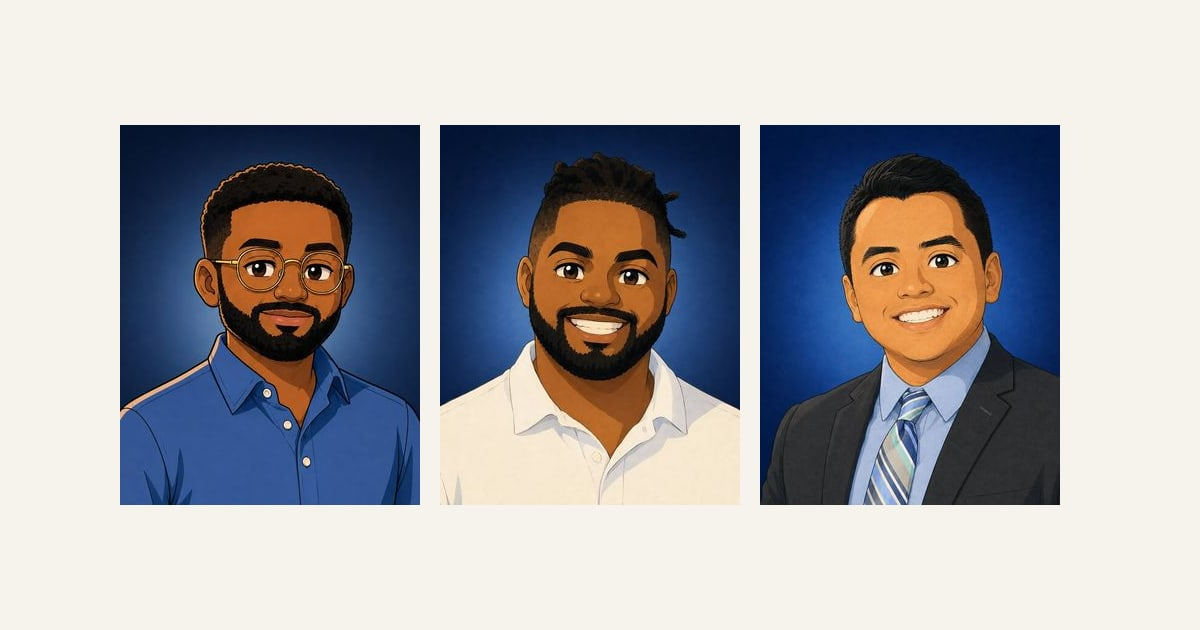
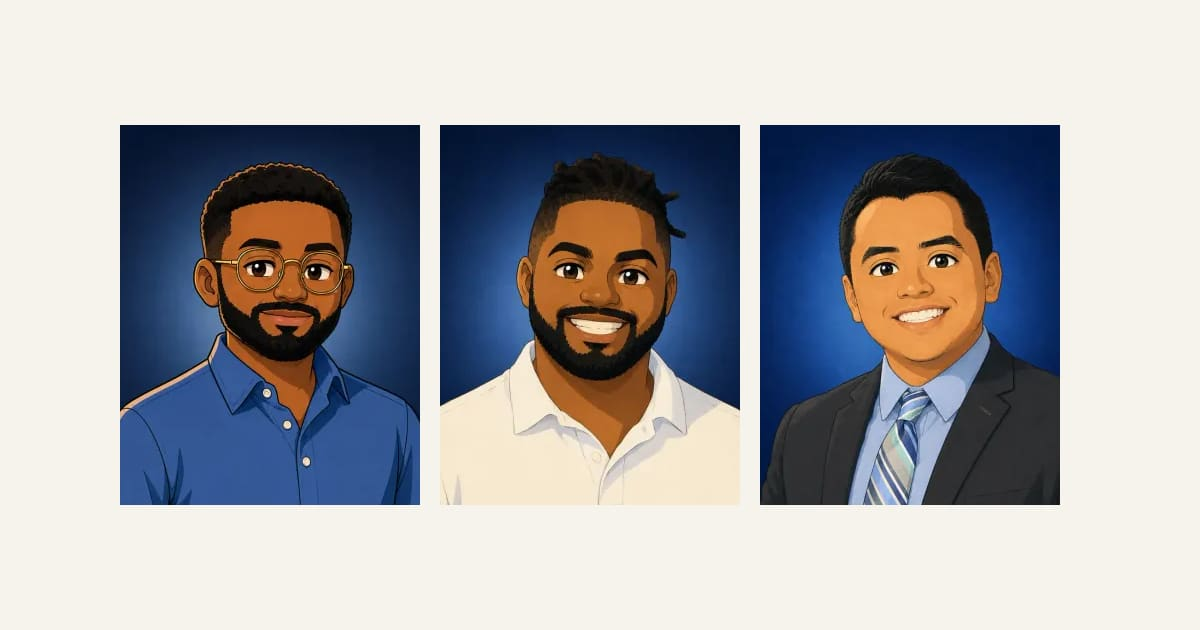
Serve team portraits as WebP cropped to the display box
The portraits were 900x900 squares with JPEG fallbacks, but the layout renders
them in a 4:5 box, so object-fit discarded the extra pixels. Cropping to 660x825
at the source drops the three images from 149KB to 89KB with no visible change.

Drops the JPEG fallbacks, which roughly doubled image weight to cover the ~3% of
browsers predating WebP support.

diff --git a/index.html b/index.html
@@ -18,7 +18,7 @@
 <meta name="twitter:image" content="/assets/img/og.jpg">
 
 <link rel="icon" href="/favicon.svg" type="image/svg+xml">
-<link rel="apple-touch-icon" href="/assets/img/ryan.jpg">
+<link rel="apple-touch-icon" href="/assets/img/og.jpg">
 
 <link rel="preconnect" href="https://fonts.googleapis.com">
 <link rel="preconnect" href="https://fonts.gstatic.com" crossorigin>
@@ -141,10 +141,8 @@
   <div class="team">
     <article class="member" data-reveal="0">
       <div class="member__photo">
-        <picture>
-          <source srcset="/assets/img/ryan.webp" type="image/webp">
-          <img src="/assets/img/ryan.jpg" alt="Illustrated portrait of Ryan" width="900" height="900" loading="lazy" decoding="async">
-        </picture>
+        <img src="/assets/img/ryan.webp" alt="Illustrated portrait of Ryan"
+             width="660" height="825" loading="lazy" decoding="async">
       </div>
       <div class="member__head">
         <h3 class="member__name">Ryan</h3>
@@ -156,10 +154,8 @@
 
     <article class="member" data-reveal="100">
       <div class="member__photo">
-        <picture>
-          <source srcset="/assets/img/damani.webp" type="image/webp">
-          <img src="/assets/img/damani.jpg" alt="Illustrated portrait of Damani" width="900" height="900" loading="lazy" decoding="async">
-        </picture>
+        <img src="/assets/img/damani.webp" alt="Illustrated portrait of Damani"
+             width="660" height="825" loading="lazy" decoding="async">
       </div>
       <div class="member__head">
         <h3 class="member__name">Damani</h3>
@@ -171,10 +167,8 @@
 
     <article class="member" data-reveal="200">
       <div class="member__photo">
-        <picture>
-          <source srcset="/assets/img/oscar.webp" type="image/webp">
-          <img src="/assets/img/oscar.jpg" alt="Illustrated portrait of Oscar" width="900" height="900" loading="lazy" decoding="async">
-        </picture>
+        <img src="/assets/img/oscar.webp" alt="Illustrated portrait of Oscar"
+             width="660" height="825" loading="lazy" decoding="async">
       </div>
       <div class="member__head">
         <h3 class="member__name">Oscar</h3>

diff --git a/README.md b/README.md
@@ -11,7 +11,7 @@ Built as a static site: no framework, no build step, no runtime dependencies. Op
 index.html              Full page markup
 assets/css/styles.css   Design tokens, layout, responsive rules
 assets/js/main.js       Hero orbit, WebGL orb, levers, reveals, newsletter
-assets/img/             Team portraits (WebP with JPEG fallback) and social card
+assets/img/             Team portraits (WebP) and social card
 favicon.svg             Brand mark
 vercel.json             Clean URLs, asset caching, security headers
 ```
@@ -66,8 +66,13 @@ them at a real list provider before launch.
 
 ## Images
 
-Source portraits were 1254x1254 PNGs totalling 6.7 MB. They ship here as 900x900
-WebP with JPEG fallbacks, about 149 KB for all three.
+Source portraits were 1254x1254 PNGs totalling 6.7 MB. They ship here as 660x825
+WebP cropped to the 4:5 display box, about 89 KB for all three, plus a generated
+1200x630 social card.
+
+WebP is served without a raster fallback, which covers roughly 97% of browsers
+(Chrome 32+, Firefox 65+, Safari 14+, Edge 18+). Add a `<picture>` element with
+JPEG sources if you need to reach older clients.
 
 ## Deployment
 
